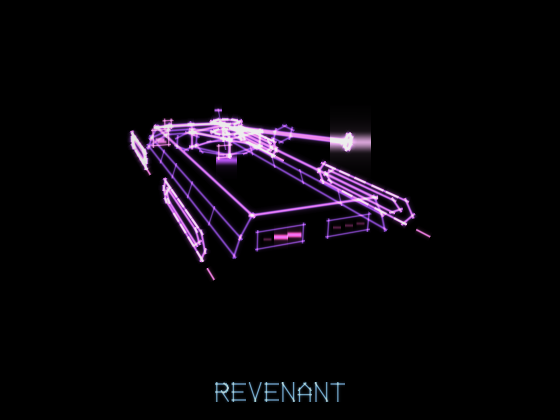
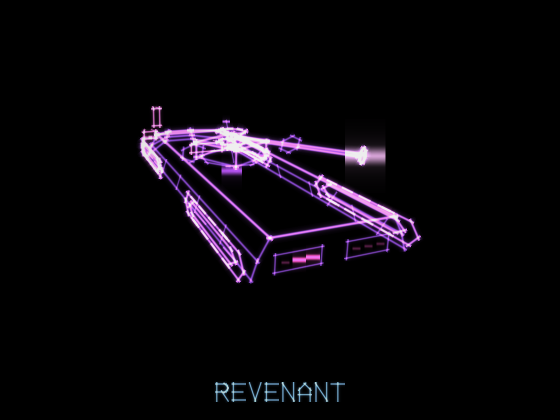
fix: the treads bolt to the hull, and the teeth stay on the track
The tread pods floated 21 units off the widest skirt line, and the
rolling teeth used a signed modulo, so as b.t grew the bottom run's
teeth rendered a hundred units behind the pod -- the stray floating
lines on the road were never wreckage, they were escaped tread teeth.
Pods now tuck against the skirt with axle struts, and the teeth wrap
with a positive modulo that keeps them inside the racetrack.

Also unbroke the portrait tool: its staged debris still used the old
{t,x,size} shape, and the undefined w/h fed NaN into the camera fit,
which framed nothing -- every revenant portrait since the wreckage
change came out black. The pose now stages a slab, a car, and a post.

Changed region(s): [[0.2125, 0.2476, 0.7589, 0.681]]

diff --git a/src/boss.js b/src/boss.js
@@ -1181,9 +1181,15 @@ export const WARDENS = {
       seg(140, -48, 34, 140, 48, 34, 2.2);
 
       // --- four tread pods, racetracks rolling ----------------------------
+      // Tucked against the skirt and bolted to it: a tread that floats off
+      // the hull is not a tread, it is litter.
+      const wrap = (v, n) => ((v % n) + n) % n;
       for (const [pt, sxs] of [[-115, -1], [-115, 1], [95, -1], [95, 1]]) {
-        const px = sxs * 74;
-        const face = sxs * 7;
+        const px = sxs * 58;
+        const face = sxs * 9;
+        for (const at of [-30, 30]) {
+          seg(pt + at, sxs * 60, 8, pt + at, px + face, 17, 1.6, dim, 0.85);
+        }
         for (const [rl, ry0, ry1] of [[52, 8, 26], [40, 12, 22]]) {
           seg(pt - rl, px + face, ry0, pt + rl, px + face, ry0, 2, col, 0.95);
           seg(pt - rl, px + face, ry1, pt + rl, px + face, ry1, 2, col, 0.95);
@@ -1193,9 +1199,9 @@ export const WARDENS = {
           seg(pt + rl + 7, px + face, (ry0 + ry1) / 2, pt + rl, px + face, ry1, 2, col, 0.95);
         }
         for (let k = 0; k < 5; k++) {
-          const roll = ((b.t * 0.14 + k * 21) % 100) - 50;
+          const roll = wrap(b.t * 0.14 + k * 21, 88) - 44;
           seg(pt + roll, px + face, 26, pt + roll + 8, px + face, 26, 1.7, [1, 0.5, 0.9], 0.85);
-          const roll2 = ((-b.t * 0.14 + k * 21) % 100) - 50;
+          const roll2 = wrap(-b.t * 0.14 + k * 21, 88) - 44;
           seg(pt + roll2, px + face, 8, pt + roll2 + 8, px + face, 8, 1.7, [1, 0.5, 0.9], 0.85);
         }
       }
